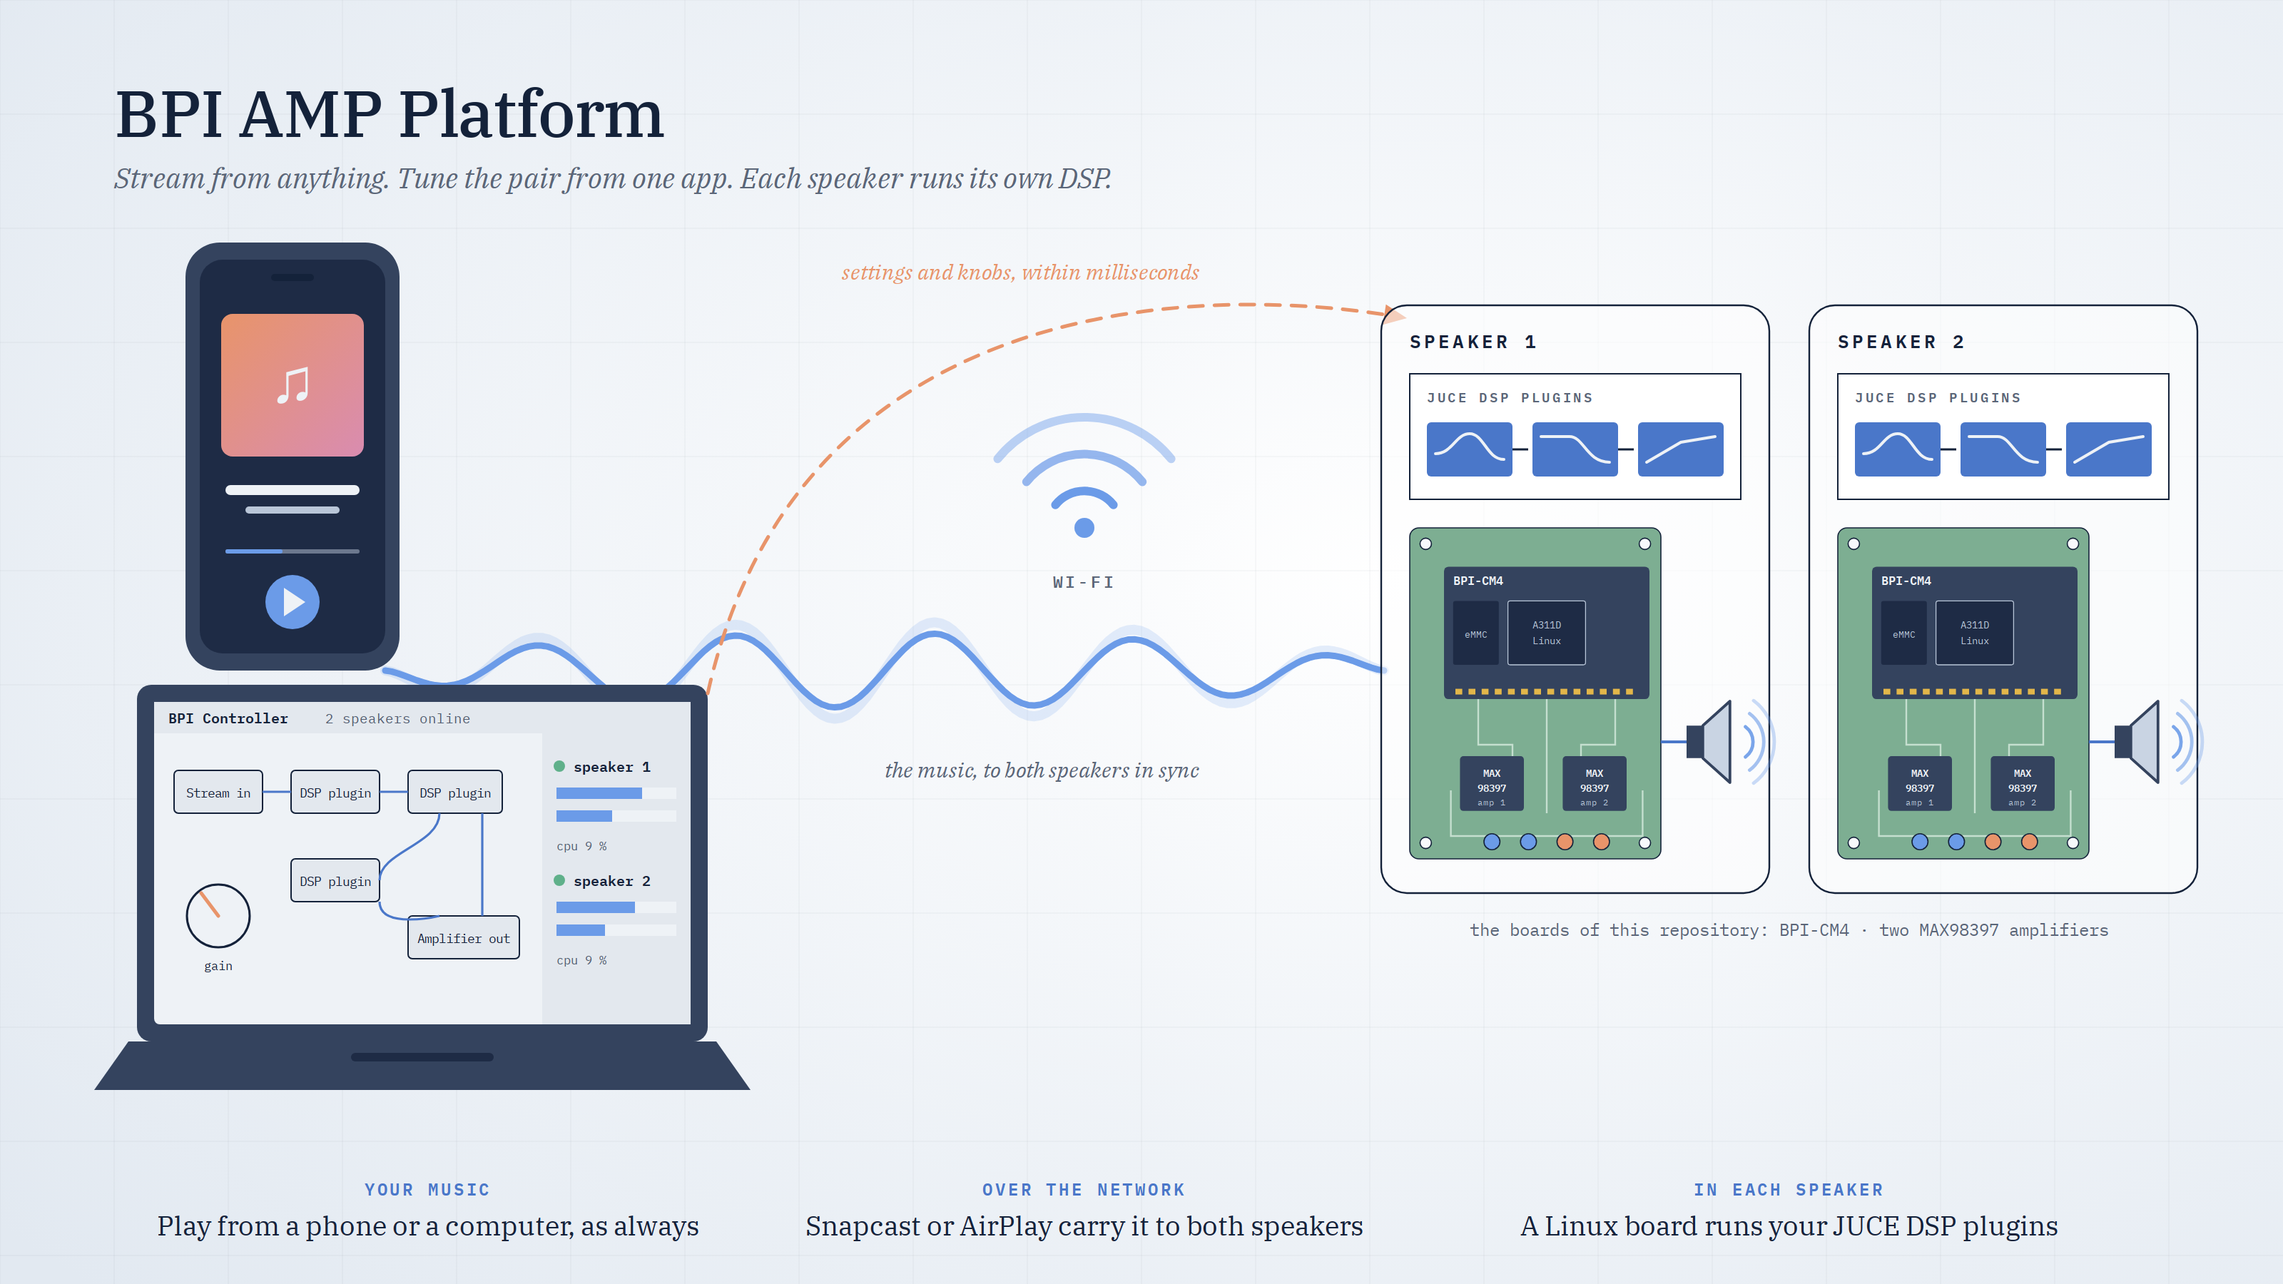
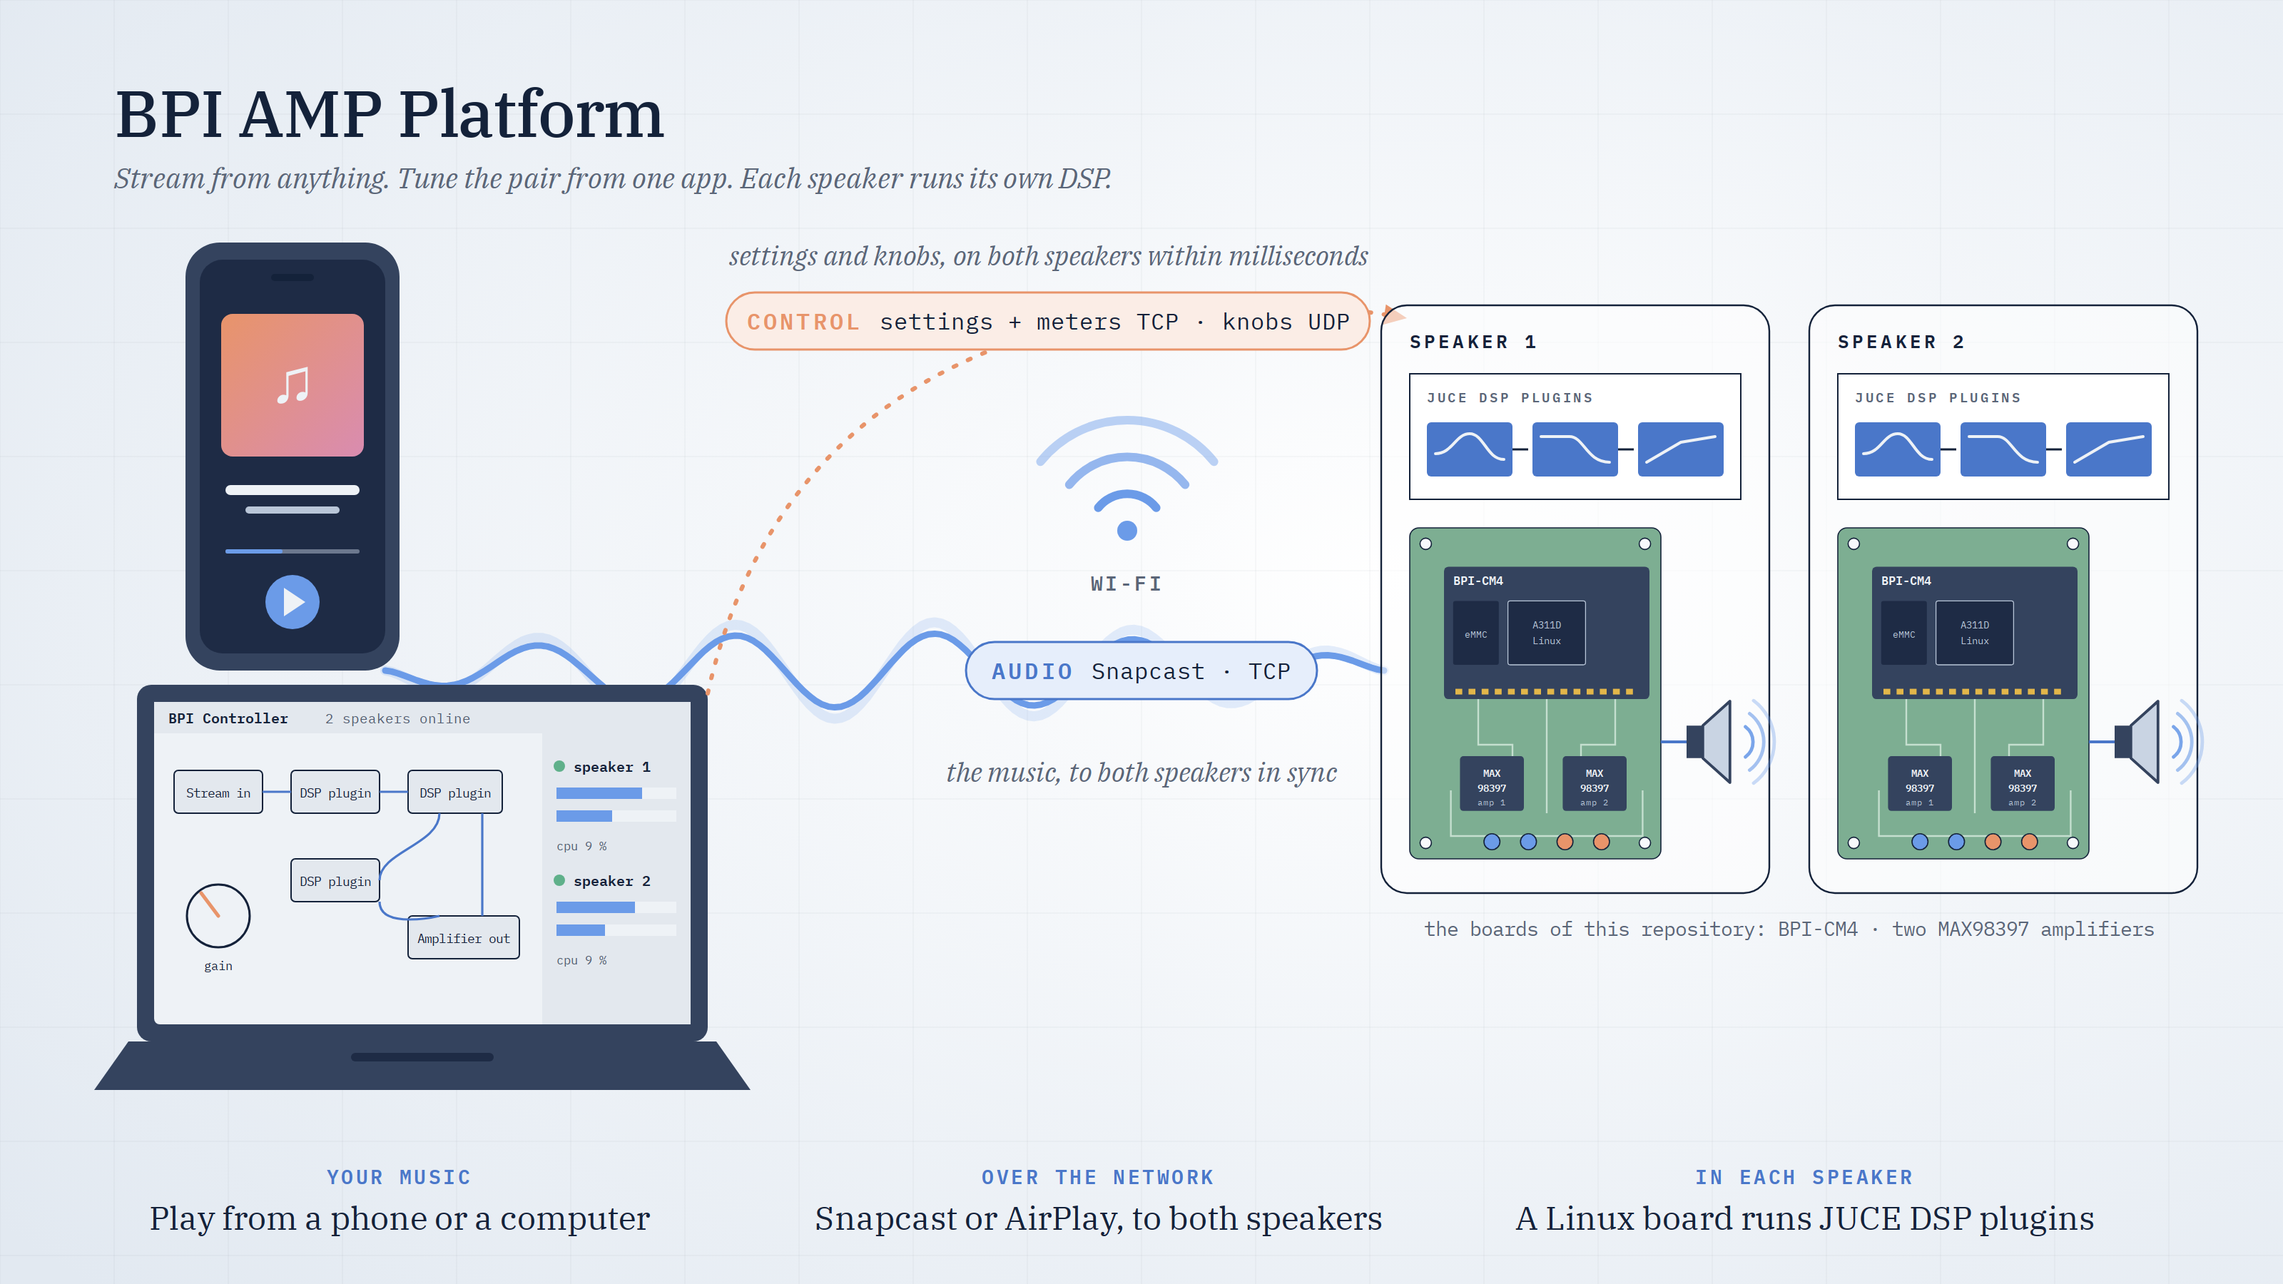
docs: the opening picture tells the audio from the control, with their transports
The audio wave carries an AUDIO label (Snapcast, TCP) and the control line, now dotted, a
CONTROL one (settings and meters over TCP, knobs over UDP), each with its line beneath it.
The captions and the labels are larger, and shorter so they fit.

diff --git a/docs/diagrams/hero.html b/docs/diagrams/hero.html
@@ -15,7 +15,9 @@
 <text x="80" y="132" fill="#5B6678" text-anchor="start" style="font-family: 'IBM Plex Serif', Georgia, serif; font-size: 20px; font-weight: 400; font-style: italic">Stream from anything. Tune the pair from one app. Each speaker runs its own DSP.</text>
 <path d="M270.0 470.0 L274.4 470.9 L278.8 472.6 L283.1 474.6 L287.5 476.7 L291.9 478.9 L296.2 480.8 L300.6 482.3 L305.0 483.4 L309.4 484.0 L313.8 483.9 L318.1 483.1 L322.5 481.6 L326.9 479.5 L331.2 476.8 L335.6 473.6 L340.0 470.0 L344.4 466.2 L348.8 462.3 L353.1 458.6 L357.5 455.1 L361.9 452.1 L366.2 449.7 L370.6 448.0 L375.0 447.1 L379.4 447.1 L383.8 448.0 L388.1 449.9 L392.5 452.6 L396.9 456.1 L401.2 460.3 L405.6 465.0 L410.0 470.0 L414.4 475.2 L418.8 480.2 L423.1 485.0 L427.5 489.4 L431.9 493.0 L436.2 495.9 L440.6 497.8 L445.0 498.6 L449.4 498.3 L453.8 496.9 L458.1 494.4 L462.5 491.0 L466.9 486.6 L471.2 481.5 L475.6 475.9 L480.0 470.0 L484.4 464.0 L488.8 458.1 L493.1 452.7 L497.5 447.8 L501.9 443.7 L506.2 440.7 L510.6 438.7 L515.0 437.9 L519.4 438.4 L523.8 440.1 L528.1 442.9 L532.5 446.9 L536.9 451.8 L541.2 457.4 L545.6 463.6 L550.0 470.0 L554.4 476.5 L558.8 482.8 L563.1 488.6 L567.5 493.7 L571.9 497.9 L576.2 501.1 L580.6 503.1 L585.0 503.8 L589.4 503.2 L593.8 501.3 L598.1 498.2 L602.5 494.0 L606.9 488.9 L611.2 483.0 L615.6 476.6 L620.0 470.0 L624.4 463.4 L628.8 457.0 L633.1 451.1 L637.5 446.0 L641.9 441.8 L646.2 438.7 L650.6 436.8 L655.0 436.2 L659.4 436.9 L663.8 438.9 L668.1 442.1 L672.5 446.3 L676.9 451.4 L681.2 457.2 L685.6 463.5 L690.0 470.0 L694.4 476.4 L698.8 482.6 L703.1 488.2 L707.5 493.1 L711.9 497.1 L716.2 499.9 L720.6 501.6 L725.0 502.1 L729.4 501.3 L733.8 499.3 L738.1 496.3 L742.5 492.2 L746.9 487.3 L751.2 481.9 L755.6 476.0 L760.0 470.0 L764.4 464.1 L768.8 458.5 L773.1 453.4 L777.5 449.0 L781.9 445.6 L786.2 443.1 L790.6 441.7 L795.0 441.4 L799.4 442.2 L803.8 444.1 L808.1 447.0 L812.5 450.6 L816.9 455.0 L821.2 459.8 L825.6 464.8 L830.0 470.0 L834.4 475.0 L838.8 479.7 L843.1 483.9 L847.5 487.4 L851.9 490.1 L856.2 492.0 L860.6 492.9 L865.0 492.9 L869.4 492.0 L873.8 490.3 L878.1 487.9 L882.5 484.9 L886.9 481.4 L891.2 477.7 L895.6 473.8 L900.0 470.0 L904.4 466.4 L908.8 463.2 L913.1 460.5 L917.5 458.4 L921.9 456.9 L926.2 456.1 L930.6 456.0 L935.0 456.6 L939.4 457.7 L943.8 459.2 L948.1 461.1 L952.5 463.3 L956.9 465.4 L961.2 467.4 L965.6 469.1 L970.0 470.0" fill="none" stroke="#6B9BE8" stroke-width="7" stroke-linecap="round" stroke-linejoin="round" opacity="0.18"/>
 <path d="M270.0 470.0 L274.4 470.7 L278.8 472.0 L283.1 473.5 L287.5 475.1 L291.9 476.8 L296.2 478.2 L300.6 479.4 L305.0 480.3 L309.4 480.7 L313.8 480.6 L318.1 480.0 L322.5 478.9 L326.9 477.3 L331.2 475.2 L335.6 472.7 L340.0 470.0 L344.4 467.1 L348.8 464.1 L353.1 461.3 L357.5 458.6 L361.9 456.3 L366.2 454.5 L370.6 453.2 L375.0 452.5 L379.4 452.5 L383.8 453.2 L388.1 454.6 L392.5 456.7 L396.9 459.4 L401.2 462.6 L405.6 466.2 L410.0 470.0 L414.4 473.9 L418.8 477.8 L423.1 481.5 L427.5 484.8 L431.9 487.6 L436.2 489.8 L440.6 491.2 L445.0 491.9 L449.4 491.7 L453.8 490.6 L458.1 488.7 L462.5 486.0 L466.9 482.7 L471.2 478.8 L475.6 474.5 L480.0 470.0 L484.4 465.4 L488.8 460.9 L493.1 456.7 L497.5 453.0 L501.9 449.9 L506.2 447.6 L510.6 446.1 L515.0 445.5 L519.4 445.8 L523.8 447.1 L528.1 449.3 L532.5 452.3 L536.9 456.1 L541.2 460.4 L545.6 465.1 L550.0 470.0 L554.4 475.0 L558.8 479.8 L563.1 484.2 L567.5 488.1 L571.9 491.4 L576.2 493.8 L580.6 495.3 L585.0 495.8 L589.4 495.4 L593.8 493.9 L598.1 491.6 L602.5 488.4 L606.9 484.4 L611.2 479.9 L615.6 475.1 L620.0 470.0 L624.4 464.9 L628.8 460.1 L633.1 455.6 L637.5 451.6 L641.9 448.4 L646.2 446.1 L650.6 444.6 L655.0 444.2 L659.4 444.7 L663.8 446.2 L668.1 448.6 L672.5 451.9 L676.9 455.8 L681.2 460.2 L685.6 465.0 L690.0 470.0 L694.4 474.9 L698.8 479.6 L703.1 483.9 L707.5 487.7 L711.9 490.7 L716.2 492.9 L720.6 494.2 L725.0 494.5 L729.4 493.9 L733.8 492.4 L738.1 490.1 L742.5 487.0 L746.9 483.3 L751.2 479.1 L755.6 474.6 L760.0 470.0 L764.4 465.5 L768.8 461.2 L773.1 457.3 L777.5 454.0 L781.9 451.3 L786.2 449.4 L790.6 448.3 L795.0 448.1 L799.4 448.8 L803.8 450.2 L808.1 452.4 L812.5 455.2 L816.9 458.5 L821.2 462.2 L825.6 466.1 L830.0 470.0 L834.4 473.8 L838.8 477.4 L843.1 480.6 L847.5 483.3 L851.9 485.4 L856.2 486.8 L860.6 487.5 L865.0 487.5 L869.4 486.8 L873.8 485.5 L878.1 483.7 L882.5 481.4 L886.9 478.7 L891.2 475.9 L895.6 472.9 L900.0 470.0 L904.4 467.3 L908.8 464.8 L913.1 462.7 L917.5 461.1 L921.9 460.0 L926.2 459.4 L930.6 459.3 L935.0 459.7 L939.4 460.6 L943.8 461.8 L948.1 463.2 L952.5 464.9 L956.9 466.5 L961.2 468.0 L965.6 469.3 L970.0 470.0" fill="none" stroke="#6B9BE8" stroke-width="4.5" stroke-linecap="round" stroke-linejoin="round" opacity="1"/>
-<text x="620" y="545" fill="#5B6678" text-anchor="start" style="font-family: 'IBM Plex Serif', Georgia, serif; font-size: 15px; font-weight: 400; font-style: italic">the music, to both speakers in sync</text>
+<rect x="677" y="450" width="246" height="40" rx="20" fill="#E6EEFB" stroke="#4A77C9" stroke-width="1.5"/>
+<text x="800" y="476" text-anchor="middle" style="font-family: 'IBM Plex Mono', ui-monospace, 'SF Mono', Menlo, monospace; font-size: 16px"><tspan fill="#4A77C9" font-weight="600" letter-spacing="0.1em">AUDIO</tspan><tspan fill="#14223A" dx="12">Snapcast · TCP</tspan></text>
+<text x="800" y="548" fill="#5B6678" text-anchor="middle" style="font-family: 'IBM Plex Serif', Georgia, serif; font-size: 19px; font-weight: 400; font-style: italic">the music, to both speakers in sync</text>
 <rect x="130" y="170" width="150" height="300" rx="24" fill="#34435E"/>
 <rect x="140" y="182" width="130" height="276" rx="16" fill="#1E2B45"/>
 <rect x="190" y="192" width="30" height="5" rx="2.5" fill="#14223A"/>
@@ -67,14 +69,16 @@
 <text x="390" y="676" fill="#515C6F" text-anchor="start" style="font-family: 'IBM Plex Mono', ui-monospace, 'SF Mono', Menlo, monospace; font-size: 8.5px; font-weight: 400">cpu 9 %</text>
 <path d="M66 764 L526 764 L502 730 L90 730 Z" fill="#34435E" stroke-linejoin="round"/>
 <rect x="246.0" y="738" width="100" height="6" rx="3" fill="#1E2B45"/>
-<path d="M739.7 353.9 A26 26 0 0 1 780.3 353.9" fill="none" stroke="#6B9BE8" stroke-width="6" stroke-linecap="round" opacity="1"/>
-<path d="M719.4 337.8 A52 52 0 0 1 800.6 337.8" fill="none" stroke="#6B9BE8" stroke-width="6" stroke-linecap="round" opacity="0.7"/>
-<path d="M699.2 321.6 A78 78 0 0 1 820.8 321.6" fill="none" stroke="#6B9BE8" stroke-width="6" stroke-linecap="round" opacity="0.45"/>
-<circle cx="760" cy="370" r="7" fill="#6B9BE8"/>
-<text x="760" y="412" fill="#5B6678" text-anchor="middle" style="font-family: 'IBM Plex Mono', ui-monospace, 'SF Mono', Menlo, monospace; font-size: 11.5px; font-weight: 600; letter-spacing: 0.16em">WI-FI</text>
-<path d="M496 486 C 560 200, 850 200, 980 222" fill="none" stroke="#E8946A" stroke-width="2.5" stroke-dasharray="10 8" stroke-linecap="round"/>
+<path d="M769.7 355.9 A26 26 0 0 1 810.3 355.9" fill="none" stroke="#6B9BE8" stroke-width="6" stroke-linecap="round" opacity="1"/>
+<path d="M749.4 339.8 A52 52 0 0 1 830.6 339.8" fill="none" stroke="#6B9BE8" stroke-width="6" stroke-linecap="round" opacity="0.7"/>
+<path d="M729.2 323.6 A78 78 0 0 1 850.8 323.6" fill="none" stroke="#6B9BE8" stroke-width="6" stroke-linecap="round" opacity="0.45"/>
+<circle cx="790" cy="372" r="7" fill="#6B9BE8"/>
+<text x="790" y="414" fill="#5B6678" text-anchor="middle" style="font-family: 'IBM Plex Mono', ui-monospace, 'SF Mono', Menlo, monospace; font-size: 14px; font-weight: 600; letter-spacing: 0.16em">WI-FI</text>
+<path d="M496 486 C 560 200, 850 200, 980 222" fill="none" stroke="#E8946A" stroke-width="3" stroke-dasharray="2 9" stroke-linecap="round"/>
 <path d="M986.0 223.0 L971.3 213.4 L969.1 227.6 Z" fill="#E8946A"/>
-<text x="590" y="196" fill="#E8946A" text-anchor="start" style="font-family: 'IBM Plex Serif', Georgia, serif; font-size: 15px; font-weight: 400; font-style: italic">settings and knobs, within milliseconds</text>
+<text x="735" y="186" fill="#5B6678" text-anchor="middle" style="font-family: 'IBM Plex Serif', Georgia, serif; font-size: 19px; font-weight: 400; font-style: italic">settings and knobs, on both speakers within milliseconds</text>
+<rect x="509" y="205" width="451" height="40" rx="20" fill="#FBEDE6" stroke="#E8946A" stroke-width="1.5"/>
+<text x="735" y="231" text-anchor="middle" style="font-family: 'IBM Plex Mono', ui-monospace, 'SF Mono', Menlo, monospace; font-size: 16px"><tspan fill="#E8946A" font-weight="600" letter-spacing="0.1em">CONTROL</tspan><tspan fill="#14223A" dx="12">settings + meters TCP · knobs UDP</tspan></text>
 <rect x="968" y="214" width="272" height="412" rx="18" fill="#FFFFFF" fill-opacity="0.55" stroke="#14223A" stroke-width="1.2"/>
 <text x="988" y="244" fill="#14223A" text-anchor="start" style="font-family: 'IBM Plex Mono', ui-monospace, 'SF Mono', Menlo, monospace; font-size: 13px; font-weight: 600; letter-spacing: 0.16em">SPEAKER 1</text>
 <rect x="988" y="262" width="232" height="88" fill="#FFFFFF" stroke="#14223A" stroke-width="1"/>
@@ -199,13 +203,13 @@
 <path d="M1523.3 509.4 A13.3 13.3 0 0 1 1523.3 530.6" fill="none" stroke="#6B9BE8" stroke-width="2.4" stroke-linecap="round" opacity="0.9"/>
 <path d="M1526.2 500.2 A24.7 24.7 0 0 1 1526.2 539.8" fill="none" stroke="#6B9BE8" stroke-width="2.4" stroke-linecap="round" opacity="0.6"/>
 <path d="M1529.0 491.1 A36.1 36.1 0 0 1 1529.0 548.9" fill="none" stroke="#6B9BE8" stroke-width="2.4" stroke-linecap="round" opacity="0.35"/>
-<text x="1254" y="656" fill="#5B6678" text-anchor="middle" style="font-family: 'IBM Plex Mono', ui-monospace, 'SF Mono', Menlo, monospace; font-size: 12px; font-weight: 400">the boards of this repository: BPI-CM4 · two MAX98397 amplifiers</text>
-<text x="300" y="838" fill="#4A77C9" text-anchor="middle" style="font-family: 'IBM Plex Mono', ui-monospace, 'SF Mono', Menlo, monospace; font-size: 12px; font-weight: 600; letter-spacing: 0.16em">YOUR MUSIC</text>
-<text x="300" y="866" fill="#14223A" text-anchor="middle" style="font-family: 'IBM Plex Serif', Georgia, serif; font-size: 19px; font-weight: 400">Play from a phone or a computer, as always</text>
-<text x="760" y="838" fill="#4A77C9" text-anchor="middle" style="font-family: 'IBM Plex Mono', ui-monospace, 'SF Mono', Menlo, monospace; font-size: 12px; font-weight: 600; letter-spacing: 0.16em">OVER THE NETWORK</text>
-<text x="760" y="866" fill="#14223A" text-anchor="middle" style="font-family: 'IBM Plex Serif', Georgia, serif; font-size: 19px; font-weight: 400">Snapcast or AirPlay carry it to both speakers</text>
-<text x="1254" y="838" fill="#4A77C9" text-anchor="middle" style="font-family: 'IBM Plex Mono', ui-monospace, 'SF Mono', Menlo, monospace; font-size: 12px; font-weight: 600; letter-spacing: 0.16em">IN EACH SPEAKER</text>
-<text x="1254" y="866" fill="#14223A" text-anchor="middle" style="font-family: 'IBM Plex Serif', Georgia, serif; font-size: 19px; font-weight: 400">A Linux board runs your JUCE DSP plugins</text>
+<text x="1254" y="656" fill="#5B6678" text-anchor="middle" style="font-family: 'IBM Plex Mono', ui-monospace, 'SF Mono', Menlo, monospace; font-size: 14px; font-weight: 400">the boards of this repository: BPI-CM4 · two MAX98397 amplifiers</text>
+<text x="280" y="830" fill="#4A77C9" text-anchor="middle" style="font-family: 'IBM Plex Mono', ui-monospace, 'SF Mono', Menlo, monospace; font-size: 14px; font-weight: 600; letter-spacing: 0.16em">YOUR MUSIC</text>
+<text x="280" y="862" fill="#14223A" text-anchor="middle" style="font-family: 'IBM Plex Serif', Georgia, serif; font-size: 23px; font-weight: 400">Play from a phone or a computer</text>
+<text x="770" y="830" fill="#4A77C9" text-anchor="middle" style="font-family: 'IBM Plex Mono', ui-monospace, 'SF Mono', Menlo, monospace; font-size: 14px; font-weight: 600; letter-spacing: 0.16em">OVER THE NETWORK</text>
+<text x="770" y="862" fill="#14223A" text-anchor="middle" style="font-family: 'IBM Plex Serif', Georgia, serif; font-size: 23px; font-weight: 400">Snapcast or AirPlay, to both speakers</text>
+<text x="1265" y="830" fill="#4A77C9" text-anchor="middle" style="font-family: 'IBM Plex Mono', ui-monospace, 'SF Mono', Menlo, monospace; font-size: 14px; font-weight: 600; letter-spacing: 0.16em">IN EACH SPEAKER</text>
+<text x="1265" y="862" fill="#14223A" text-anchor="middle" style="font-family: 'IBM Plex Serif', Georgia, serif; font-size: 23px; font-weight: 400">A Linux board runs JUCE DSP plugins</text>
 </svg>
 </div>
 </body></html>

diff --git a/docs/diagrams/hero.py b/docs/diagrams/hero.py
@@ -43,8 +43,19 @@ def text(x, y, s, size=16, fill=PAPER, mono=False, weight=400, italic=False, anc
 
 
 def caption(x, y, kicker, line):
-    return (text(x, y, kicker, 12, BLUE_DIM, mono=True, weight=600, anchor="middle", spacing="0.16em")
-            + text(x, y + 28, line, 19, INK, anchor="middle"))
+    return (text(x, y, kicker, 14, BLUE_DIM, mono=True, weight=600, anchor="middle", spacing="0.16em")
+            + text(x, y + 32, line, 23, INK, anchor="middle"))
+
+
+def transport(cx, cy, kind, line, color, fill):
+    """A transport line's label: a pill saying what it carries and over which protocol."""
+    w = 44 + 11.2 * len(kind) + 12 + 9.6 * len(line)
+    o = (f'<rect x="{cx - w / 2:.0f}" y="{cy - 20}" width="{w:.0f}" height="40" rx="20" fill="{fill}" '
+         f'stroke="{color}" stroke-width="1.5"/>\n')
+    o += (f'<text x="{cx}" y="{cy + 6}" text-anchor="middle" style="font-family: {FONT_MONO}; font-size: 16px">'
+          f'<tspan fill="{color}" font-weight="600" letter-spacing="0.1em">{kind}</tspan>'
+          f'<tspan fill="{INK}" dx="12">{line}</tspan></text>\n')
+    return o
 
 
 def phone(x, y):
@@ -245,31 +256,34 @@ def scene():
     # the music: out of the phone, across the picture, into the speakers (drawn first: it passes behind them)
     o += wave(270, 970, 470, 34, 5.0, width=7, color=BLUE, opacity=0.18)
     o += wave(270, 970, 470, 26, 5.0, width=4.5, color=BLUE)
-    o += text(620, 545, "the music, to both speakers in sync", 15, MUTED, italic=True)
+    o += transport(800, 470, "AUDIO", "Snapcast · TCP", BLUE_DIM, "#E6EEFB")
+    o += text(800, 548, "the music, to both speakers in sync", 19, MUTED, italic=True, anchor="middle")
 
     # sources
     o += phone(130, 170)
     o += laptop(96, 480)
 
     # network
-    o += wifi(760, 370)
-    o += text(760, 412, "WI-FI", 11.5, MUTED, mono=True, weight=600, anchor="middle", spacing="0.16em")
+    o += wifi(790, 372)
+    o += text(790, 414, "WI-FI", 14, MUTED, mono=True, weight=600, anchor="middle", spacing="0.16em")
     # settings: the controller to the plugin graph
-    o += (f'<path d="M496 486 C 560 200, 850 200, 980 222" fill="none" stroke="{ORANGE}" stroke-width="2.5" '
-          f'stroke-dasharray="10 8" stroke-linecap="round"/>\n')
+    o += (f'<path d="M496 486 C 560 200, 850 200, 980 222" fill="none" stroke="{ORANGE}" stroke-width="3" '
+          f'stroke-dasharray="2 9" stroke-linecap="round"/>\n')
     o += arrow_head(986, 223, 9, ORANGE, 16)
-    o += text(590, 196, "settings and knobs, within milliseconds", 15, ORANGE, italic=True)
+    o += text(735, 186, "settings and knobs, on both speakers within milliseconds", 19, MUTED, italic=True,
+              anchor="middle")
+    o += transport(735, 225, "CONTROL", "settings + meters TCP · knobs UDP", ORANGE, "#FBEDE6")
 
     # the two speakers, each a board with its DSP plugins and a loudspeaker
     o += speaker_unit(968, 214, 1)
     o += speaker_unit(1268, 214, 2)
-    o += text(1254, 656, "the boards of this repository: BPI-CM4 · two MAX98397 amplifiers", 12, MUTED,
+    o += text(1254, 656, "the boards of this repository: BPI-CM4 · two MAX98397 amplifiers", 14, MUTED,
               mono=True, anchor="middle")
 
     # captions
-    o += caption(300, 838, "YOUR MUSIC", "Play from a phone or a computer, as always")
-    o += caption(760, 838, "OVER THE NETWORK", "Snapcast or AirPlay carry it to both speakers")
-    o += caption(1254, 838, "IN EACH SPEAKER", "A Linux board runs your JUCE DSP plugins")
+    o += caption(280, 830, "YOUR MUSIC", "Play from a phone or a computer")
+    o += caption(770, 830, "OVER THE NETWORK", "Snapcast or AirPlay, to both speakers")
+    o += caption(1265, 830, "IN EACH SPEAKER", "A Linux board runs JUCE DSP plugins")
     return o
 
 
